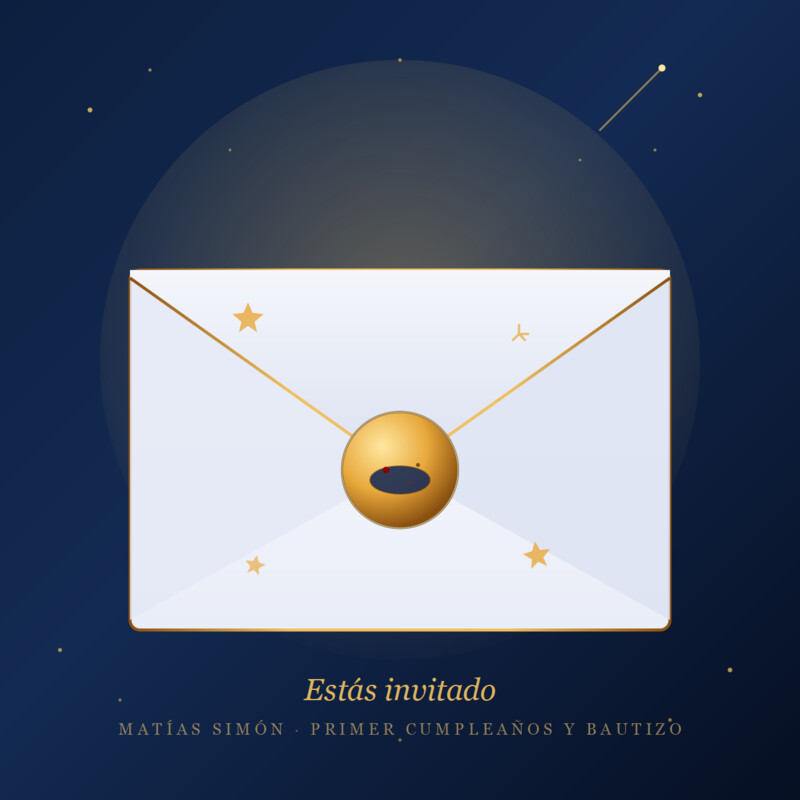
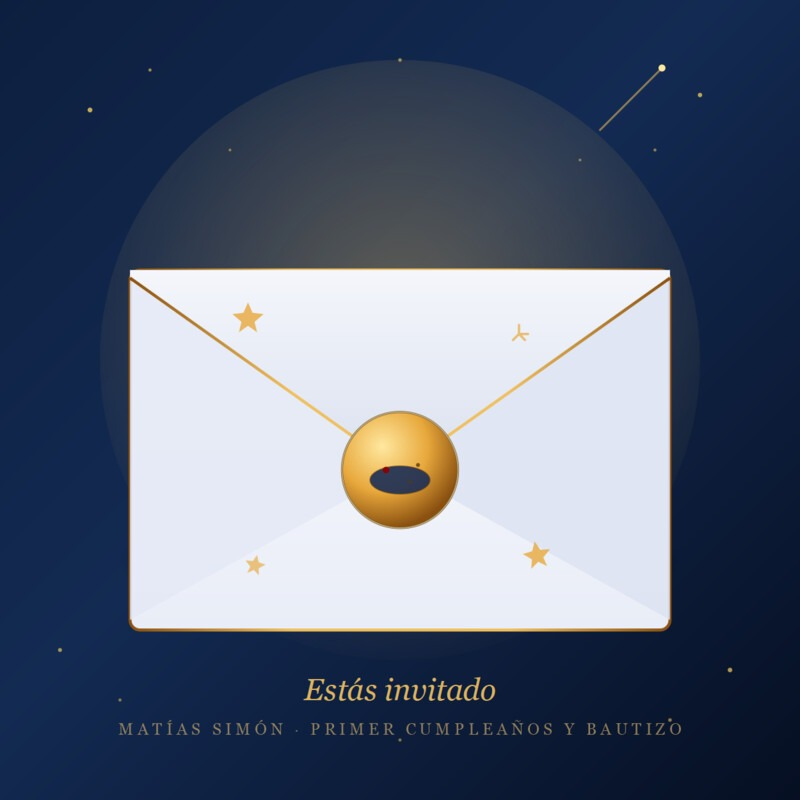
update

Changed region(s): [[0.375, 0.8438, 0.625, 0.875], [0.2188, 0.7812, 0.2812, 0.8125]]

diff --git a/index.html b/index.html
@@ -13,16 +13,17 @@
     <meta name="theme-color" content="#0a1830" />
 
     <meta property="og:type"        content="website" />
+    <meta property="og:url"         content="https://matias-simon.online/" />
     <meta property="og:title"       content="✉ Estás invitado al Primer Cumpleaños y Bautizo de Matías Simón 🪐" />
     <meta property="og:description" content="Abre el sobre y viaja hasta el pequeño planeta de Matías Simón ✨" />
-    <meta property="og:image"       content="/assets/img/matias/sobre.jpg" />
+    <meta property="og:image"       content="https://matias-simon.online/assets/img/matias/sobre.jpg" />
     <meta property="og:image:width"  content="800" />
     <meta property="og:image:height" content="800" />
     <meta property="og:image:alt"   content="Sobre de invitación — Primer Cumpleaños y Bautizo de Matías Simón" />
     <meta property="og:locale"      content="es_MX" />
 
     <meta name="twitter:card"  content="summary_large_image" />
-    <meta name="twitter:image" content="/assets/img/matias/sobre.jpg" />
+    <meta name="twitter:image" content="https://matias-simon.online/assets/img/matias/sobre.jpg" />
 
     <link rel="preconnect" href="https://fonts.googleapis.com" />
     <link rel="preconnect" href="https://fonts.gstatic.com" crossorigin />
@@ -91,7 +92,7 @@
         .crown-label{
             position:relative;z-index:3;
             font-family:'Cinzel',serif;font-size:.65rem;letter-spacing:.5em;text-transform:uppercase;
-            color:#f0c060;opacity:0;animation:fadeUp 1.2s .3s forwards;margin-bottom:2rem;
+            color:#f0c060;opacity:0;animation:fadeUp 1.2s .3s forwards;margin-bottom:5rem;
             display:flex;align-items:center;gap:.8rem;white-space:nowrap;
         }
         @media(max-width:480px){
@@ -106,7 +107,6 @@
             opacity:0;animation:scaleIn 1.4s .5s cubic-bezier(.34,1.4,.64,1) forwards;
         }
         .moon-orbit{
-            argin-top: 32px;
             position:absolute;inset:0;
             animation:moonFloat 7s 1.9s ease-in-out infinite;
             transition:scale .4s cubic-bezier(.34,1.4,.64,1);
